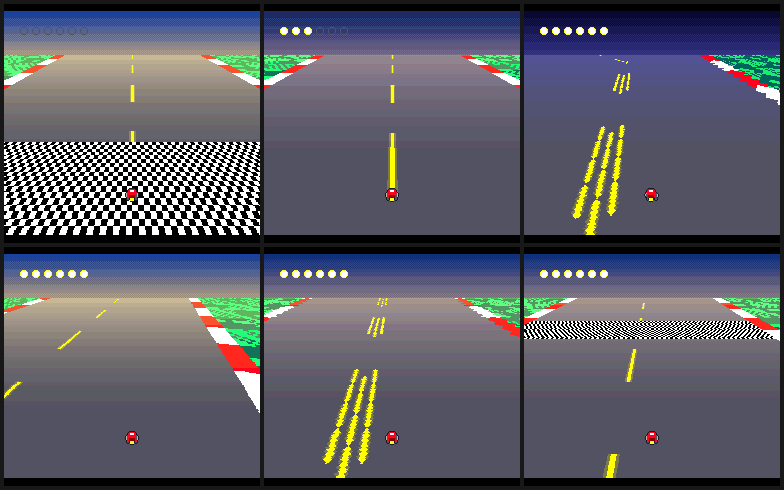
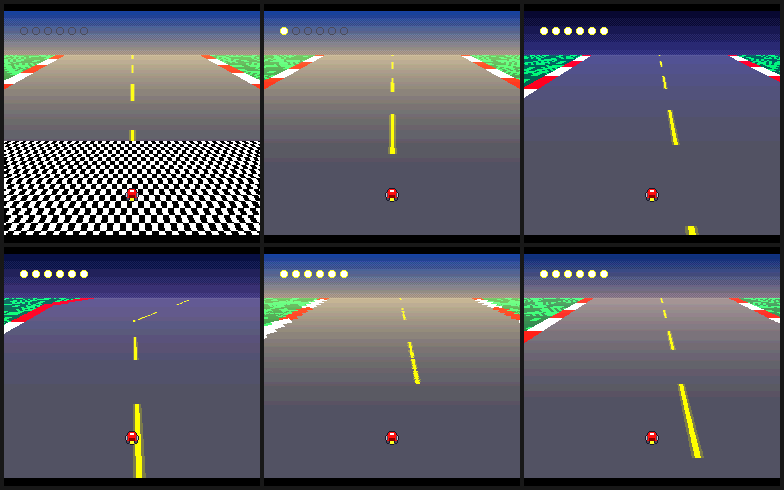
racer: the centre line is one line on the diagonals too
The road carried THREE parallel yellow dashed lines on every 45-degree leg
of the circuit and one on every straight. Measured on hardware, on the long
SE diagonal: the streamed Mode-7 tilemap held three LINE_BACK tiles per row
(cols 73,74,75 of a row, and so on down the leg) against exactly one LINE_V
per row on the home straight — and tile 9's CHR is a yellow stripe running
corner to corner through its whole 8x8 cell, so three chains one tile apart
render as three lines about 17 screen px apart in the near field.

The cause is in this rail's own painter. `course_map` asked `d == 0` of
`_seg_metrics`' perpendicular distance, and on a diagonal leg that distance
is `(|cross| * 2**14/sqrt(2)) >> 14` — which floors to zero for |cross| = 0
AND |cross| = 1, selecting three adjacent diagonal chains instead of one.
All eight diagonal legs were affected and none of the eight straights, where
the same test is exact.

The refusal already existed for the OTHER geometry: gen_m7_assets'
`on_centre_line` was written against exactly this floor on the octagon
ring's 45-degree sides, where the one-sided oct_dist makes it TWO chains
rather than three, and its docstring says so. `course_map` is a separate,
later painter over a leg field and never inherited it. So this is not a
regression of that fix — it is the same defect class re-created in new
geometry, which is why it could arrive with every gate green.

`_on_centre_line` states the refusal for a leg field: the exact anti-diagonal
[…]

diff --git a/tests/test_racer.py b/tests/test_racer.py
@@ -18,6 +18,8 @@ mechanism rather than as an adjective:
     R7  red-and-white rumble strips at the road edges — STATIC
     R8  START pauses to a freeze-frame
     R9  HDMA composition across the channel pool — the rail's headline
+    R10 the centre line is ONE line — on the 45-degree legs as well as the
+        straights
 
 Every one is a named case, and every state claim is driven in BOTH
 directions (AGENTS.md test discipline: "forward *and* reverse *and* idle").
@@ -51,8 +53,10 @@ from PIL import Image
 SUPERFORGE = Path(__file__).resolve().parent.parent
 sys.path.insert(0, str(SUPERFORGE / "vendor"))
 sys.path.insert(0, str(SUPERFORGE / "tests"))
+sys.path.insert(0, str(SUPERFORGE / "tools"))
 
 from machine import Machine, MemoryType                        # noqa: E402
+from gen_racer_assets import COURSE, ROAD_HALF                 # noqa: E402
 
 BUILD = SUPERFORGE / "build"
 ROM = BUILD / "racer.sfc"
@@ -60,6 +64,7 @@ MAP = json.loads((BUILD / "rc" / "symbol_map.json").read_text())
 
 O = MemoryType.SnesSpriteRam
 C = MemoryType.SnesCgRam
+W = MemoryType.SnesWorkRam
 
 # The rail's declared geometry (game/racer/world.inc). Named here so a wrong
 # constant is a mismatch against the picture rather than a silent re-spelling.
@@ -86,6 +91,16 @@ def _chan(name):
         if c["name"] == name:
             return c
     raise KeyError(f"{name} is not an emitted channel of the race scene")
+
+
+def _sym(name):
+    for p in MAP["scenes"]["race"]["placements"]:
+        if p["sym"] == name:
+            return p["start"]
+    raise KeyError(f"{name} is not an emitted placement of the race scene")
+
+
+M7ORG, HEADING = _sym("ES_M7ORG"), _sym("US_HEADING")
 
 
 def _boot(frames=BOOT, drives=()):
@@ -598,5 +613,205 @@ def test_the_sound_driver_is_still_running_inside_the_freeze():
         assert a != b, (
             "SPC RAM is byte-identical across 30 frames of the freeze — the "
             "sound driver stopped with the picture")
+    finally:
+        m.close()
+
+
+# =============================================================================
+# R10 — ONE centre line, on the 45-degree legs as well as the straights
+# =============================================================================
+# THE DEFECT THIS REFUSES, stated as the picture a player sees: on every
+# diagonal leg of the COURSE the road carried THREE parallel yellow dashed
+# lines where the straights carried one. Measured on hardware before the fix —
+# the streamed Mode-7 tilemap held three LINE_BACK tiles per row on the long SE
+# diagonal, against exactly one LINE_V per row on the home straight, and each
+# of those tiles paints a full corner-to-corner stripe through its own cell.
+# Cause: the painter's centre-line test was `d == 0` on `_seg_metrics`'
+# perpendicular distance, which on a diagonal leg floors to zero for
+# cross-track offsets 0 AND +/-1 — three adjacent chains.
+# `gen_racer_assets._on_centre_line` is the exact predicate that replaced it.
+#
+# WHY THE CASE HAS TO DRIVE, and this is the whole point of it. A shot at BOOT
+# is of a STRAIGHT, and on the straights the line was always single — a case
+# parked there would have stayed green for exactly as long as the diagonals
+# stayed broken, which is how this shipped in the first place. So the drive is
+# part of the assertion: it puts the camera on COURSE leg 8, the long SE
+# diagonal, which is the section the gallery clip shows the defect on.
+#
+# WHAT IS READ, AND WHAT IS NOT. The claim is asserted on SCREEN PIXELS —
+# distinct runs of centre-line ink across the floor's scanlines. The
+# camera's world position and heading are read from WRAM to STEER, and to prove
+# the shot is of a diagonal ON the road rather than of a straight or of the
+# grass. Neither is the claim; reading either AS the claim would be the
+# proxy-variable move this module refuses everywhere else.
+
+DIAG_LEG = 8                # COURSE[8] -> COURSE[9]: the long SE diagonal,
+                            # 152 tiles — the streamer's worst case, and the
+                            # leg the gallery clip shows the three lines on
+DIAG_BEARING = 40           # (+1, +1) in pose units, 64 per revolution
+# THE COUNTED BAND IS THE WHOLE FLOOR, less two exclusions, and its height is
+# what makes the case phase-stable. A narrow near-field band BLINKS: a dash
+# period on a 45-degree leg is 4 painted plus 4 blank tile steps ~= 90 px,
+# which the cap covers in six frames, so a 26-row band reads the line and then
+# reads nothing three frames later and a sample lands in a gap by luck.
+# Measured over eight samples two frames apart, a near band alternated
+# (max 3 runs, 26 lit) with (0, 0); over the same eight the full floor never
+# went dark, because it holds several dashes at different depths at once.
+#   - the first four rows below the seam are left out, as `_band_colours`'
+#     floor reads leave them out, so the split's own line cannot be counted;
+#   - rows 184..197 are the KART's, measured (OAM says y=176 and the 16x16
+#     sprite's top rows are transparent). It carries yellow of its own at
+#     194..196, which would read as a second run on those scanlines.
+LINE_ROWS = tuple(range(SEAM + 4, 184)) + tuple(range(198, 224))
+LINE_SAMPLES = (20, 45, 70)  # frames into the leg. Chosen off a MEASURED
+                            # sweep of the whole leg in steps of 3: the defect
+                            # reads THREE runs at every point of it, and the
+                            # fixed ROM reads one from 0 to 105 — past that the
+                            # corner into leg 9 brings a SECOND leg's centre
+                            # line into shot, which is two lines correctly. All
+                            # three samples sit inside that window with 35
+                            # frames of margin
+INK_MIN, INK_GB = 180, 100  # the ink predicate's two thresholds
+LIT_MIN = 40                # scanlines of the band that must carry ink.
+                            # Measured across the whole leg: never below 45
+
+# Leg i runs COURSE[i] -> COURSE[i+1]. Each record is (bearing, midpoint px,
+# half-length in along-projection units): every positional read folds the
+# 4,096 px torus to +/-2,048, and the home straight is 2,368 px — longer than
+# the fold — so deltas are taken from the MIDPOINT, where half a leg plus the
+# turn-in window always fits. Same construction as the clip's drive, and for
+# the same reason: the choreography follows the painted road because it is
+# derived from the generator's own vertex list, not from a copy of it.
+_BEARING = {(0, -1): 0, (-1, -1): 8, (-1, 0): 16, (-1, 1): 24,
+            (0, 1): 32, (1, 1): 40, (1, 0): 48, (1, -1): 56}
+_STEP = {h: d for d, h in _BEARING.items()}
+_ISQ2_Q14 = 11585           # 2**14 / sqrt(2) — gen_m7_assets' constant
+LEGS = []
+for _i, (_x0, _y0) in enumerate(COURSE):
+    _x1, _y1 = COURSE[(_i + 1) % len(COURSE)]
+    _d = ((_x1 > _x0) - (_x1 < _x0), (_y1 > _y0) - (_y1 < _y0))
+    LEGS.append((_BEARING[_d], ((_x0 + _x1) * 4 + 4, (_y0 + _y1) * 4 + 4),
+                 (abs(_x1 - _x0) + abs(_y1 - _y0)) * 4))
+SPAWN_LEG = 15              # world.inc's CAM0 is mid-road on the home straight
+TURN_IN = 72                # along-track px before a vertex the turn starts
+ROAD_HALF_PX = ROAD_HALF * 8
+
+
+def _cam(m):
+    """(world x, world y, heading) — the camera, from the emitted symbols."""
+    return (int.from_bytes(m.read_bytes(W, M7ORG, 2), "little"),
+            int.from_bytes(m.read_bytes(W, M7ORG + 2, 2), "little"),
+            m.read_bytes(W, HEADING, 1)[0])
+
+
+def _leg_metrics(x, y, leg):
+    """(px still to run on this leg, cross-track px) for a camera at (x, y)."""
+    bearing, (mx, my), half = LEGS[leg]
+    sx, sy = _STEP[bearing]
+    dx = ((x - mx + 2048) % 4096) - 2048
+    dy = ((y - my + 2048) % 4096) - 2048
+    rem, cross = half - (sx * dx + sy * dy), dx * sy - dy * sx
+    if sx and sy:
+        rem, cross = (rem * _ISQ2_Q14) >> 14, (cross * _ISQ2_Q14) >> 14
+    return rem, cross
+
+
+def _steer(m, leg):
+    """Advance ONE frame at full throttle, turning toward `leg`'s bearing.
+
+    Cross-track: the held bearing bends one pose step toward the centre line
+    outside a 16 px deadband and two outside 48, so a corner exit's leftover
+    offset closes on the next straight instead of riding it end to end. A
+    displacement toward the travel direction's LEFT is positive, so a positive
+    error steers RIGHT — the heading decrements."""
+    x, y, h = _cam(m)
+    _, cross = _leg_metrics(x, y, leg)
+    bend = (cross > 16) + (cross > 48) - (cross < -16) - (cross < -48)
+    err = (LEGS[leg][0] - bend - h) % 64
+    err = err - 64 if err > 32 else err
+    m.advance(1, pad1={"b": True, "left": err > 0, "right": err < 0})
+
+
+def _drive_onto(m, target):
+    """Race leg to leg from the spawn until the camera enters `target`.
+
+    POSITION-SHAPED, not frame-counted: a leg advances when the ROM's own
+    reported distance to its end vertex is inside the turn-in window, so the
+    drive follows the painted road by construction. Deterministic all the same
+    — every input is a pure function of prior emulated state, so the whole
+    trajectory is a constant of the replay triple (measured: 455 frames)."""
+    leg, driven, spins = SPAWN_LEG, 0, 0
+    while leg != target:
+        spins += 1
+        assert spins < 2000, f"never reached COURSE leg {target}, on {leg}"
+        x, y, _ = _cam(m)
+        rem, _ = _leg_metrics(x, y, leg)
+        if rem <= TURN_IN:
+            leg = (leg + 1) % len(LEGS)
+            continue
+        _steer(m, leg)
+        driven += 1
+    return driven
+
+
+def _ink_runs(img, y):
+    """Distinct runs of centre-line ink across one scanline.
+
+    The ink is the floor palette's (248,248,0), and the predicate takes that
+    core WITHOUT its (120,120,72) shoulder, so two chains cannot merge through
+    a shoulder pixel between them. Nothing else this rail draws passes it: the
+    road is (80,80,96), the kerb (248,0,0) and (248,248,248), and the grass
+    greens all sit at r < 180. The kart's own yellow would pass it, which is
+    why LINE_ROWS cuts the kart's rendered rows out of the band."""
+    px = img.load()
+    runs, inrun = 0, False
+    for x in range(img.width):
+        r, g, b = px[x, y]
+        ink = r >= INK_MIN and g >= INK_MIN and g - b >= INK_GB
+        if ink and not inrun:
+            runs += 1
+        inrun = ink
+    return runs
+
+
+def test_the_centre_line_is_one_line_on_the_long_diagonal(tmp_path):
+    """R10. Three shots along the diagonal, each one run of ink per scanline.
+
+    Measured on the ROM this landed against: three runs on every counted
+    scanline before the fix, one after, at all three sample points.
+    """
+    m = _boot()
+    try:
+        driven, held, seen = _drive_onto(m, DIAG_LEG), 0, []
+        for at in LINE_SAMPLES:
+            while held < at:
+                _steer(m, DIAG_LEG)
+                held += 1
+            x, y, h = _cam(m)
+            rem, cross = _leg_metrics(x, y, DIAG_LEG)
+            # THE NON-VACUITY GUARD, and it is the half that makes the case
+            # mean anything: the shot must be OF the diagonal, ON the road.
+            assert h == DIAG_BEARING, (
+                f"{driven + held} frames in, the camera reads heading {h} and "
+                f"not COURSE leg {DIAG_LEG}'s {DIAG_BEARING} — this shot is "
+                "not of a diagonal, and the straights never showed the defect")
+            assert rem > 0 and abs(cross) <= ROAD_HALF_PX, (
+                f"the camera is {cross} px off the leg's centre with {rem} px "
+                "of it left — this shot is not on the diagonal's road")
+            img = Image.open(
+                m.screenshot(str(tmp_path / f"diag_{at}.png"))).convert("RGB")
+            counts = [_ink_runs(img, s) for s in LINE_ROWS]
+            seen.append((at, max(counts), sum(1 for c in counts if c)))
+        for at, most, lit in seen:
+            assert lit >= LIT_MIN, (
+                f"{at} frames into the diagonal only {lit} of the band's "
+                f"{len(LINE_ROWS)} scanlines carry centre-line ink — the line "
+                "is not in shot, so the count below proves nothing (the "
+                "sample has drifted off the end of the leg)")
+            assert most == 1, (
+                f"{at} frames into the diagonal a scanline of the floor "
+                f"crosses {most} separate runs of centre-line ink — the road "
+                "is showing that many parallel centre lines where it must "
+                f"show one (all three samples: {seen})")
     finally:
         m.close()

diff --git a/tools/gif_scenarios/racer.py b/tools/gif_scenarios/racer.py
@@ -25,8 +25,14 @@ count closes the clock and the two ends of the take carry the same wash only
 if the take opens at the right point in the cycle. The kart holds the grid
 with the engine off until the clock reaches it — a dropped capture costs the
 take nothing and the kart does not move — and the mark is then reached, and
-reached again a lap later, on one keyframe. Measured: the sky band
-contributes ZERO pixels to the seam.
+reached again a lap later, on one keyframe — verified by reading the ROM's
+own `US_GRAD_K` at both crossings, which is 2 at each.
+
+(An earlier note here said the sky band contributes ZERO pixels to the seam.
+That was read off `gif_seam`, and it is a PALETTE result rather than a
+picture one: the RAW screenshots at the two crossings differ across the sky
+by mad 5.62 over 21% of its pixels, because the ramp is dithered and it
+scrolls. Same keyframe, different dither phase. See LOOP_AHEAD.)
 
 THE RESIDUAL IS 8 px OF ALONG-TRACK LATTICE, and it is a property of the
 racing line rather than of the cut. A capture is three emulated frames = 45
@@ -34,8 +40,8 @@ px at the cap, and the drive's own line is a TWO-lap limit cycle: successive
 crossings of the mark land 8 px apart and every second one lands on the
 same pixel. So a one-lap take cannot register the floor exactly, and what
 those 8 px move is the textured part of it — the grass checker beyond the
-kerbs and the centre-line dashes, both in the far and middle bands. The sky
-and the near road come back exactly.
+kerbs and the centre-line dashes, both in the far and middle bands. The near
+road comes back exactly.
 
 THE DRIVE IS THE COURSE, READ FROM THE ROM. Every beat here is
 position-shaped, so per the __init__ rule nothing counts frames to a
@@ -96,10 +102,35 @@ TOD_PH, TOD_T = _sym("US_TOD_PH"), _sym("US_TOD_T")
 LINE_PY = START_TY * 8 + 4      # the start/finish chequer's mid-road pixel row
                                 # — the generator's own START_TY, which is
                                 # world.inc's CAM0_PY by construction
-LOOP_AHEAD = 320                # the mark, north of the chequer. Far enough
+LOOP_AHEAD = 288                # the mark, north of the chequer. Far enough
                                 # that the chequer is out of shot; MEASURED
                                 # against its neighbours on the 45 px capture
-                                # lattice, which read 2.97 (+32) and 3.76 (+64)
+                                # lattice, re-run on the current world: 4.91
+                                # (+32), 4.67 (+64), 7.52 (+96), against 2.48
+                                # here.
+                                #
+                                # AND THE NUMBER IS PALETTE-DOMINATED, WHICH IS
+                                # WHY IT IS RE-MEASURED RATHER THAN INHERITED.
+                                # The RAW endpoints of this take read mad 4.66
+                                # (sky 5.62, floor 4.43) at EVERY mark on the
+                                # lattice and on either side of the centre-line
+                                # fix — identical to three decimals. What moves
+                                # `gif_seam`'s figure is the shared
+                                # <=128-colour palette `quantize_take` builds
+                                # over the take: the sky is a DITHERED ramp,
+                                # the take's colour census decides how many
+                                # entries reach it, and at some marks the
+                                # palette collapses the two ends' dither to
+                                # the same entries and at others it resolves
+                                # them. So the seam here measures the WRITTEN
+                                # FILE's join, which is what a viewer sees and
+                                # what this constant is chosen against — it is
+                                # NOT a measure of how well the two mark
+                                # crossings register, and reading it as one
+                                # would be wrong. (Measured 2026-08-20: the
+                                # centre-line fix changed the census enough to
+                                # move the old mark's figure from 2.48 to 4.91
+                                # with the take's own frames byte-unchanged.)
 LOOP_PY = LINE_PY - LOOP_AHEAD
 
 # Leg bearings in pose units (64 per revolution, LEFT increments): leg i runs

diff --git a/tools/gen_racer_assets.py b/tools/gen_racer_assets.py
@@ -365,7 +365,12 @@ def _seg_metrics(seg, x, y):
     same band width as the legs and adjacent legs mitre without a pinch.
     `along` advances 1 per axis step and 2 per diagonal step — the doubling
     keeps dash and kerb-block ARC length equal across families, exactly the
-    octagon painter's scale rule."""
+    octagon painter's scale rule.
+
+    THE DISTANCE IS THE BAND'S, NOT THE CENTRE LINE'S. `d == 0` is not the
+    centre-line test and must not be used as one: on a 45-degree leg this
+    floor is zero for two distinct cross-track offsets. `_on_centre_line`
+    below is the predicate, and its docstring is why."""
     x0, y0, sx, sy, steps = seg
     dx, dy = x - x0, y - y0
     t = sx * dx + sy * dy
@@ -380,6 +385,48 @@ def _seg_metrics(seg, x, y):
     else:
         d = abs(dx) if sx == 0 else abs(dy)
     return d, t
+
+
+def _on_centre_line(seg, x, y) -> bool:
+    """True for the ONE tile per road step that carries the centre-line ink.
+
+    NOT `d == 0`, and that difference is the whole defect this predicate
+    exists to refuse. `_seg_metrics` measures perpendicular distance on a
+    45-degree leg as `(|cross| * 2**14/sqrt(2)) >> 14`, where cells are
+    spaced 1/sqrt(2) apart — so |cross| = 0 AND |cross| = 1 both floor to
+    zero and `d == 0` selects THREE adjacent diagonal chains. Each line tile
+    paints a full corner-to-corner stripe through its own cell, so the three
+    chains render as three parallel dashed lines one tile apart, on every
+    diagonal leg of the COURSE and on none of the straights. Measured on
+    hardware: the streamed Mode-7 tilemap carried three LINE_BACK tiles per
+    row on the long SE diagonal against exactly one LINE_V per row on the
+    home straight.
+
+    gen_m7_assets.on_centre_line refuses the same floor for the octagon
+    ring's 45-degree sides — TWO chains there, because that ring's distance
+    is a one-sided oct_dist rather than a signed cross. This is that refusal
+    stated for a LEG field, which is the geometry this rail paints and the
+    reason the ring's fix did not reach it.
+
+    Selecting the exact anti-diagonal `cross == 0` gives one cell per step,
+    and that chain is corner-adjacent — which is exactly how the diagonal
+    tile art joins, its ink running corner to corner, so the cells make one
+    unbroken line. Axis-aligned legs are unchanged (`d == 0` was already
+    exact there), and so are the corner caps: outside a leg's span the
+    centre cell is the endpoint itself, which lies on BOTH legs' chains, so
+    the line turns the corner without a step.
+    """
+    x0, y0, sx, sy, steps = seg
+    dx, dy = x - x0, y - y0
+    t = sx * dx + sy * dy
+    diag = sx != 0 and sy != 0
+    if t < 0:                                   # before the leg: the cap
+        return dx == 0 and dy == 0
+    if t > steps * (2 if diag else 1):          # past it: the other cap
+        return x == x0 + sx * steps and y == y0 + sy * steps
+    if diag:
+        return dx * sy - dy * sx == 0
+    return (dx if sx == 0 else dy) == 0
 
 
 def _line_tile(seg):
@@ -438,7 +485,7 @@ def course_map() -> bytes:
             scale = 2 if (seg[2] != 0 and seg[3] != 0) else 1
             if d <= ROAD_HALF:
                 t_id = world.TILE_ROAD
-                if d == 0:
+                if _on_centre_line(seg, x, y):
                     period = world.DASH_PERIOD * scale
                     if t % period < period // 2:
                         t_id = _line_tile(seg)
